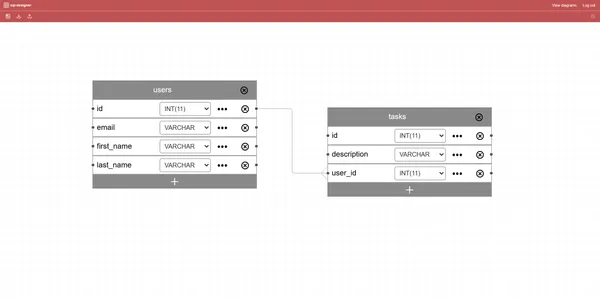
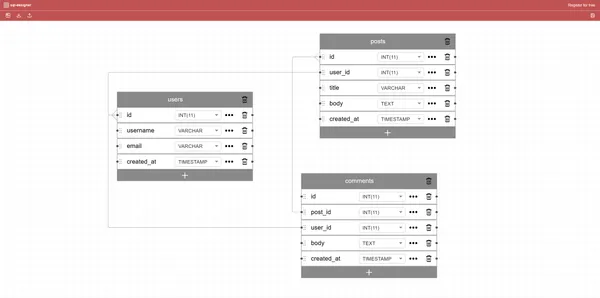
feat: updated screenshot on the main page

Changed region(s): [[0.0, 0.0, 1.0, 0.9362], [0.15, 0.2416, 0.48, 0.6342]]

diff --git a/backend/resources/views/home.blade.php b/backend/resources/views/home.blade.php
@@ -15,15 +15,15 @@
     <meta property="og:type" content="website">
     <meta property="og:url" content="https://sql-designer.com/">
     <meta property="og:image" content="https://sql-designer.com/images/screenshot.png">
-    <meta property="og:image:width" content="2556">
-    <meta property="og:image:height" content="1271">
+    <meta property="og:image:width" content="2557">
+    <meta property="og:image:height" content="1269">
     <meta property="og:image:alt" content="SQL Designer — visual MySQL schema editor">
     <meta name="twitter:card" content="summary_large_image">
     <meta name="twitter:title" content="SQL Designer — Free MySQL Schema Designer">
     <meta name="twitter:description" content="Design, visualize, and export your MySQL database schemas online for free.">
     <meta name="twitter:image" content="https://sql-designer.com/images/screenshot.png">
     <link rel="canonical" href="https://sql-designer.com/">
-    <link rel="preload" as="image" href="/images/screenshot-1000.webp" imagesrcset="/images/screenshot-600.webp 600w, /images/screenshot-1000.webp 1000w, /images/screenshot.webp 2556w" imagesizes="(max-width: 660px) calc(100vw - 3rem), 1000px" fetchpriority="high">
+    <link rel="preload" as="image" href="/images/screenshot-1000.webp" imagesrcset="/images/screenshot-600.webp 600w, /images/screenshot-1000.webp 1000w, /images/screenshot.webp 2557w" imagesizes="(max-width: 660px) calc(100vw - 3rem), 1000px" fetchpriority="high">
     <script type="application/ld+json">
     [
         {
@@ -457,9 +457,9 @@
             <picture>
                 <source
                     type="image/webp"
-                    srcset="{{ asset('images/screenshot-600.webp') }} 600w, {{ asset('images/screenshot-1000.webp') }} 1000w, {{ asset('images/screenshot.webp') }} 2556w"
+                    srcset="{{ asset('images/screenshot-600.webp') }} 600w, {{ asset('images/screenshot-1000.webp') }} 1000w, {{ asset('images/screenshot.webp') }} 2557w"
                     sizes="(max-width: 660px) calc(100vw - 3rem), 1000px">
-                <img src="{{ asset('images/screenshot.png') }}" alt="SQL Designer diagram editor — tables with columns and foreign key relationships on a visual canvas" width="2556" height="1271" loading="eager" fetchpriority="high">
+                <img src="{{ asset('images/screenshot.png') }}" alt="SQL Designer diagram editor — tables with columns and foreign key relationships on a visual canvas" width="2557" height="1269" loading="eager" fetchpriority="high">
             </picture>
         </div>
     </section>
